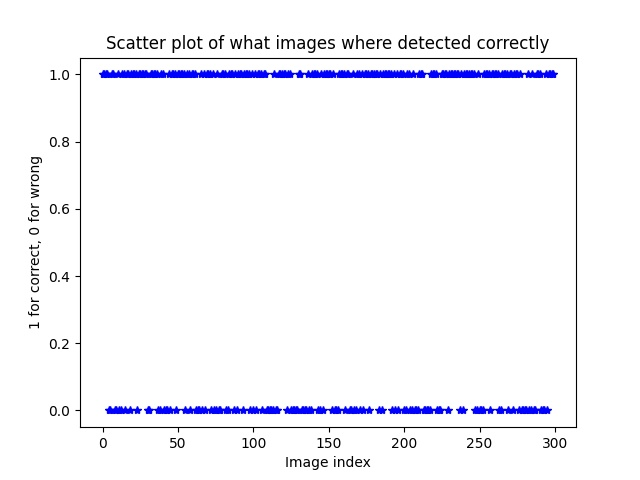
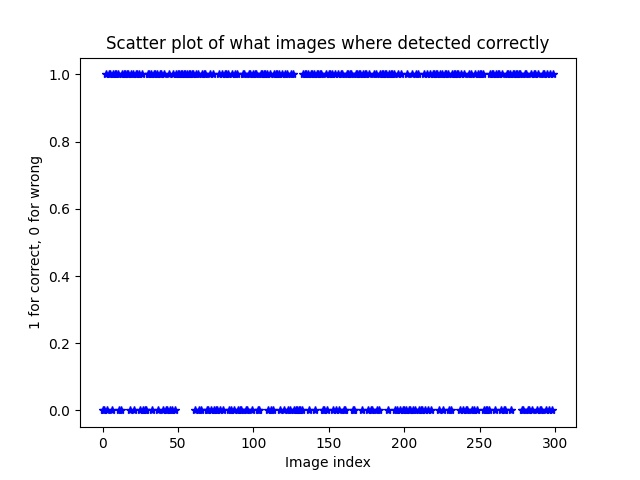
Added truth table

diff --git a/detect_resampling.py b/detect_resampling.py
@@ -4,11 +4,16 @@ import time
 
 from resampling import detect_resampling
 import glob
+from sklearn.datasets import make_classification
+from sklearn.metrics import confusion_matrix, ConfusionMatrixDisplay
+from sklearn.model_selection import train_test_split
+from sklearn.svm import SVC
+
 
 start_time = time.time()
 
 
-def fake_image_detection(show_point_plot, show_scatter, fake_threshold):
+def fake_image_detection(show_point_plot, show_scatter, fake_threshold, show_truth_table):
     # how many images to process
     casia_folder_path = r"C:\Users\chamo\Documents\Physics\Projects\Imaging and Data Processing\Automatic Fake Image Detection"
 
@@ -18,6 +23,8 @@ def fake_image_detection(show_point_plot, show_scatter, fake_threshold):
     casia_2 = np.append(casia_2_real, casia_2_fake)
 
     total_results = np.array([])
+    fake_image_labels = np.array([])
+    fakeness_end_result_total = np.array([])
 
     for i in range(num_of_images):
         # get a radnom real or fake image
@@ -29,13 +36,15 @@ def fake_image_detection(show_point_plot, show_scatter, fake_threshold):
         # make a plot of different thresholds and accurary of program
 
         fakeness_end_result = detect_resampling(suspect_image=temp_image, show_images=False, debugging=False, fake_threshold=fake_threshold)
-        
+
         if '\CASIA2\Au\Au' in str(temp_image):
             fake_image = False
+            fake_image_labels = np.append(fake_image_labels, fake_image)
             print('Image', str(i + 1),'is Real')
 
         if '\CASIA2\Tp\Tp' in str(temp_image):
             fake_image = True
+            fake_image_labels = np.append(fake_image_labels, fake_image)
             print('Image', str(i + 1),'is Fake')
 
         if fakeness_end_result == fake_image:
@@ -43,6 +52,8 @@ def fake_image_detection(show_point_plot, show_scatter, fake_threshold):
         
         if fakeness_end_result != fake_image:
             total_results = np.append(total_results, 0)
+        
+        fakeness_end_result_total = np.append(fakeness_end_result_total, fakeness_end_result)
 
     # for plotting
     if show_point_plot == True:
@@ -67,6 +78,26 @@ def fake_image_detection(show_point_plot, show_scatter, fake_threshold):
         plt.bar(bar_chart_array, bar_chart_results)
         plt.savefig(r'figures\bar chart.jpeg')
     
+    if show_truth_table == True:
+        #labels = np.array(['RF', 'FF', 'RR', 'FR'])
+        labels = [['Real', 'Fake']]
+        labels = [0, 1]
+        
+        #truth = confusion_matrix(total_results, fake_image_labels)
+        #truth_table = ConfusionMatrixDisplay(confusion_matrix=truth)
+
+        print(np.size(np.where(fakeness_end_result_total == fake_image_labels)))
+
+        # detect_resampling returns 1 if fake
+        # fake_image_labels returns 1 if fake
+        truth = confusion_matrix(fake_image_labels, fakeness_end_result_total, labels=labels)
+        truth_table = ConfusionMatrixDisplay(confusion_matrix=truth, display_labels=labels)
+        
+        #truth_table.set_ylabel('Program output')
+        #truth_table.set_xlabel('Image')
+        truth_table.plot()
+        plt.savefig(r'figures\truth table.jpeg')
+
 
     # calculate accuracy of system
     accuracy = np.sum(total_results) / np.size(total_results)
@@ -76,7 +107,9 @@ def fake_image_detection(show_point_plot, show_scatter, fake_threshold):
     
     return
 
-fake_image_detection(show_point_plot=True, show_scatter=True, fake_threshold=0.2)
+# with threshold 0.1, the results are very 'pure'
+# most/half of fake images that the program detects is correct but it misses 75% of fake images in sample
+fake_image_detection(show_point_plot=False, show_scatter=True, fake_threshold=0.2, show_truth_table=True)
 #detect_resampling(suspect_image=casia_2_fake[10], show_images=True, debugging=False)
 
 # measure time taken to execute code (uni interpreter is usually faster than uni_2_1)

diff --git a/resampling.py b/resampling.py
@@ -49,9 +49,9 @@ def detect_resampling(suspect_image ,show_images, debugging, fake_threshold):
         if image_variance <= image_mean:
             fakeness = (image_variance / image_mean) * 3
 
-            #if image_variance < (image_mean * fake_threshold):
+            if image_variance < (image_mean * fake_threshold):
                 #fakeness = 0
-            #    fakeness = image_variance / image_mean
+                fakeness = image_variance / image_mean
         
         return fakeness
 
@@ -123,10 +123,10 @@ def detect_resampling(suspect_image ,show_images, debugging, fake_threshold):
         plt.show()
 
     if fakeness >= 0.5:
-        fakeness_end_result = True
+        fakeness_end_result = True # image is fake
 
     if fakeness <= 0.5:
-        fakeness_end_result = False
+        fakeness_end_result = False # image is real
     
     return fakeness_end_result
 
